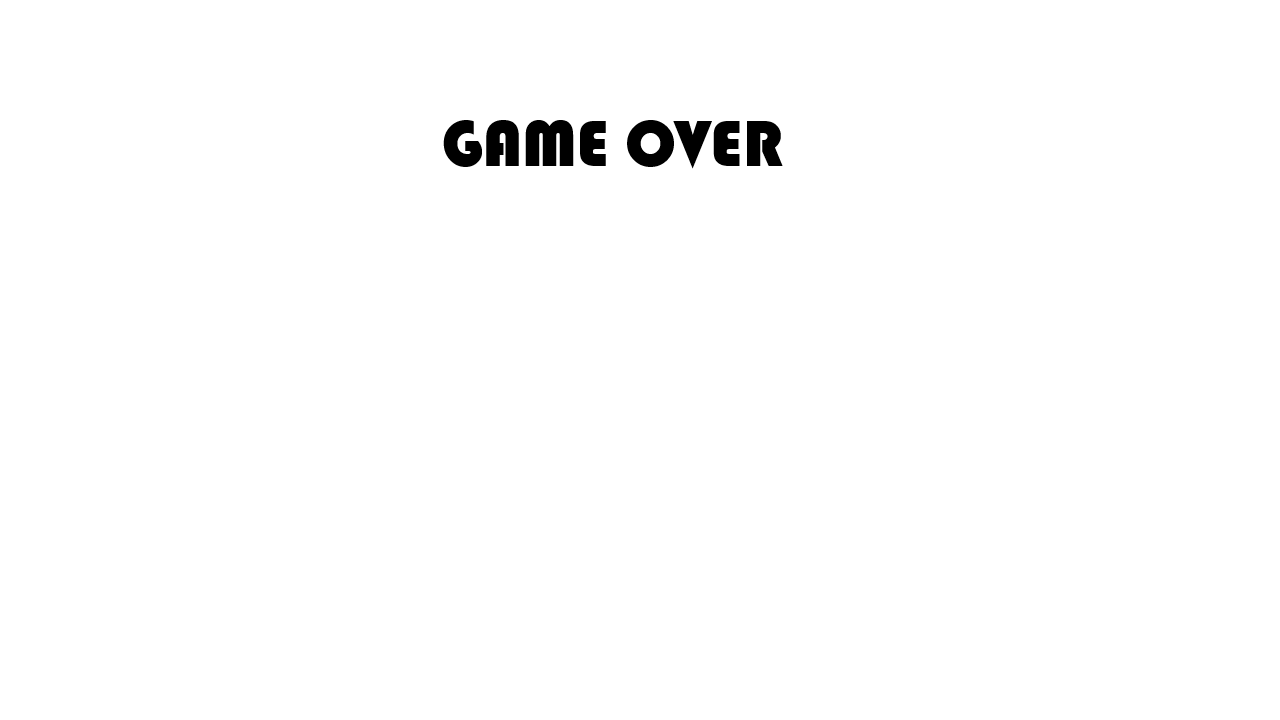
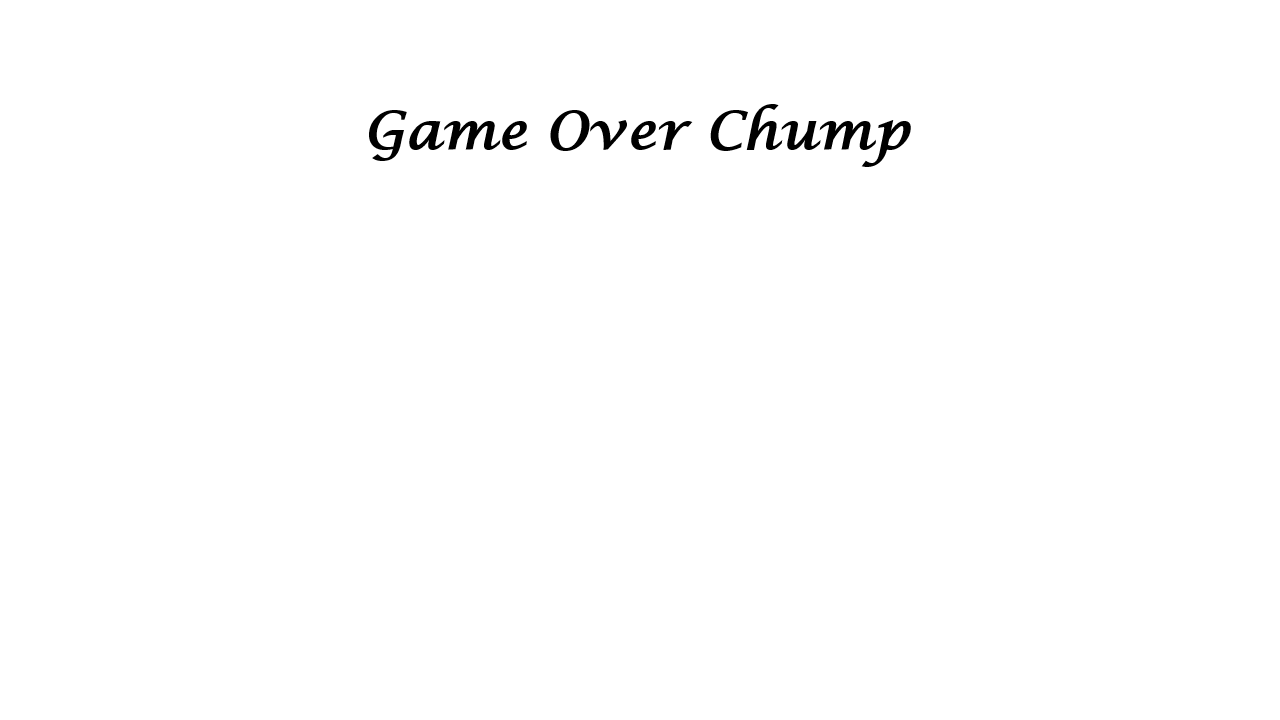
Repositioned name input on game over screen and changed game over title

Changed region(s): [[0.2812, 0.1528, 0.7188, 0.2444]]

diff --git a/deco2800.arcade.burningskies/src/main/java/deco2800/arcade/burningskies/screen/GameOverScreen.java b/deco2800.arcade.burningskies/src/main/java/deco2800/arcade/burningskies/screen/GameOverScreen.java
@@ -87,15 +87,17 @@ public class GameOverScreen implements Screen {
     	ArcadeInputMux.getInstance().addProcessor(processor);
     	
     	playerNameInput = new TextField("Enter your name", skin);
-    	playerNameInput.setX(100);
-    	playerNameInput.setY(100);
+    	playerNameInput.setWidth(200);
+    	playerNameInput.setHeight(50);
+    	playerNameInput.setX((width/2) - playerNameInput.getWidth());
+    	playerNameInput.setY(height/2 + playerNameInput.getHeight()/2);
     	
 	    submitButton = new TextButton("Submit", skin);
 	    submitButton.setWidth(200);
 	    submitButton.setHeight(50);
 
-	    submitButton.setY((float)(width*0.02));
-	    submitButton.setX((float)(height*0.02));
+	    submitButton.setX(width/2);
+	    submitButton.setY(height/2 + submitButton.getHeight()/2);
 	    
 	    submitButton.addListener(new InputListener() {
             public boolean touchDown(InputEvent event, float x, float y, int pointer, int button) {
